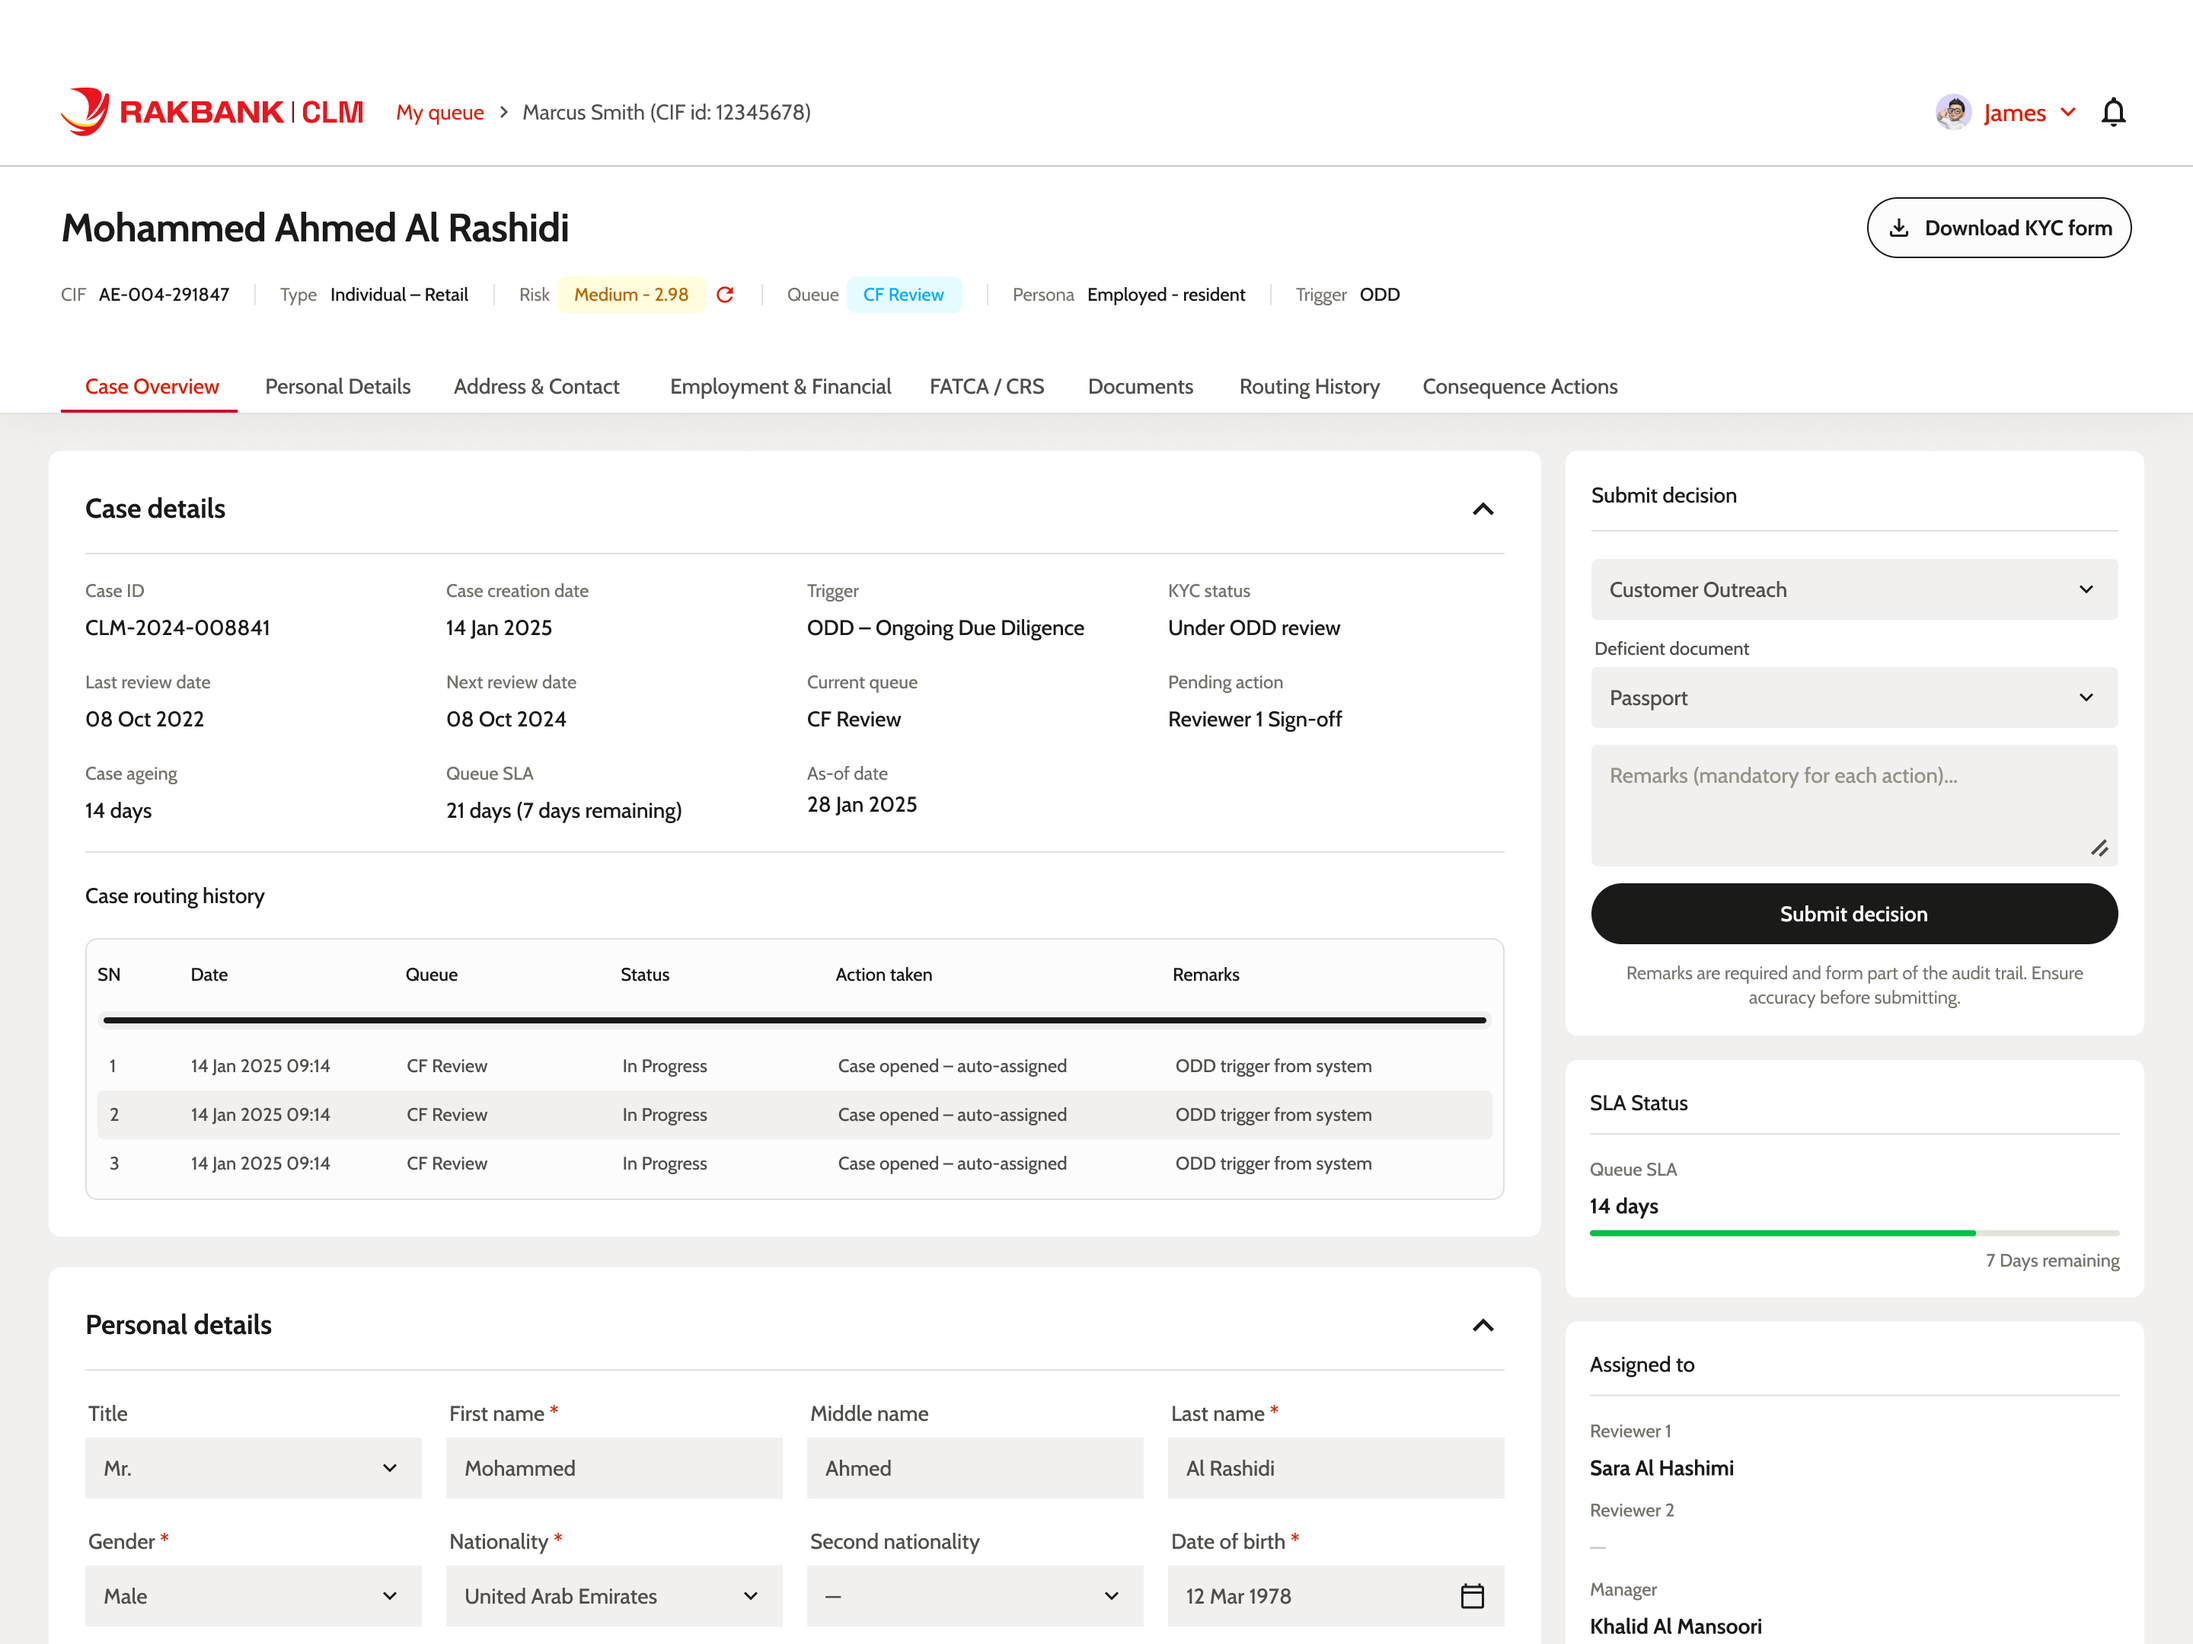
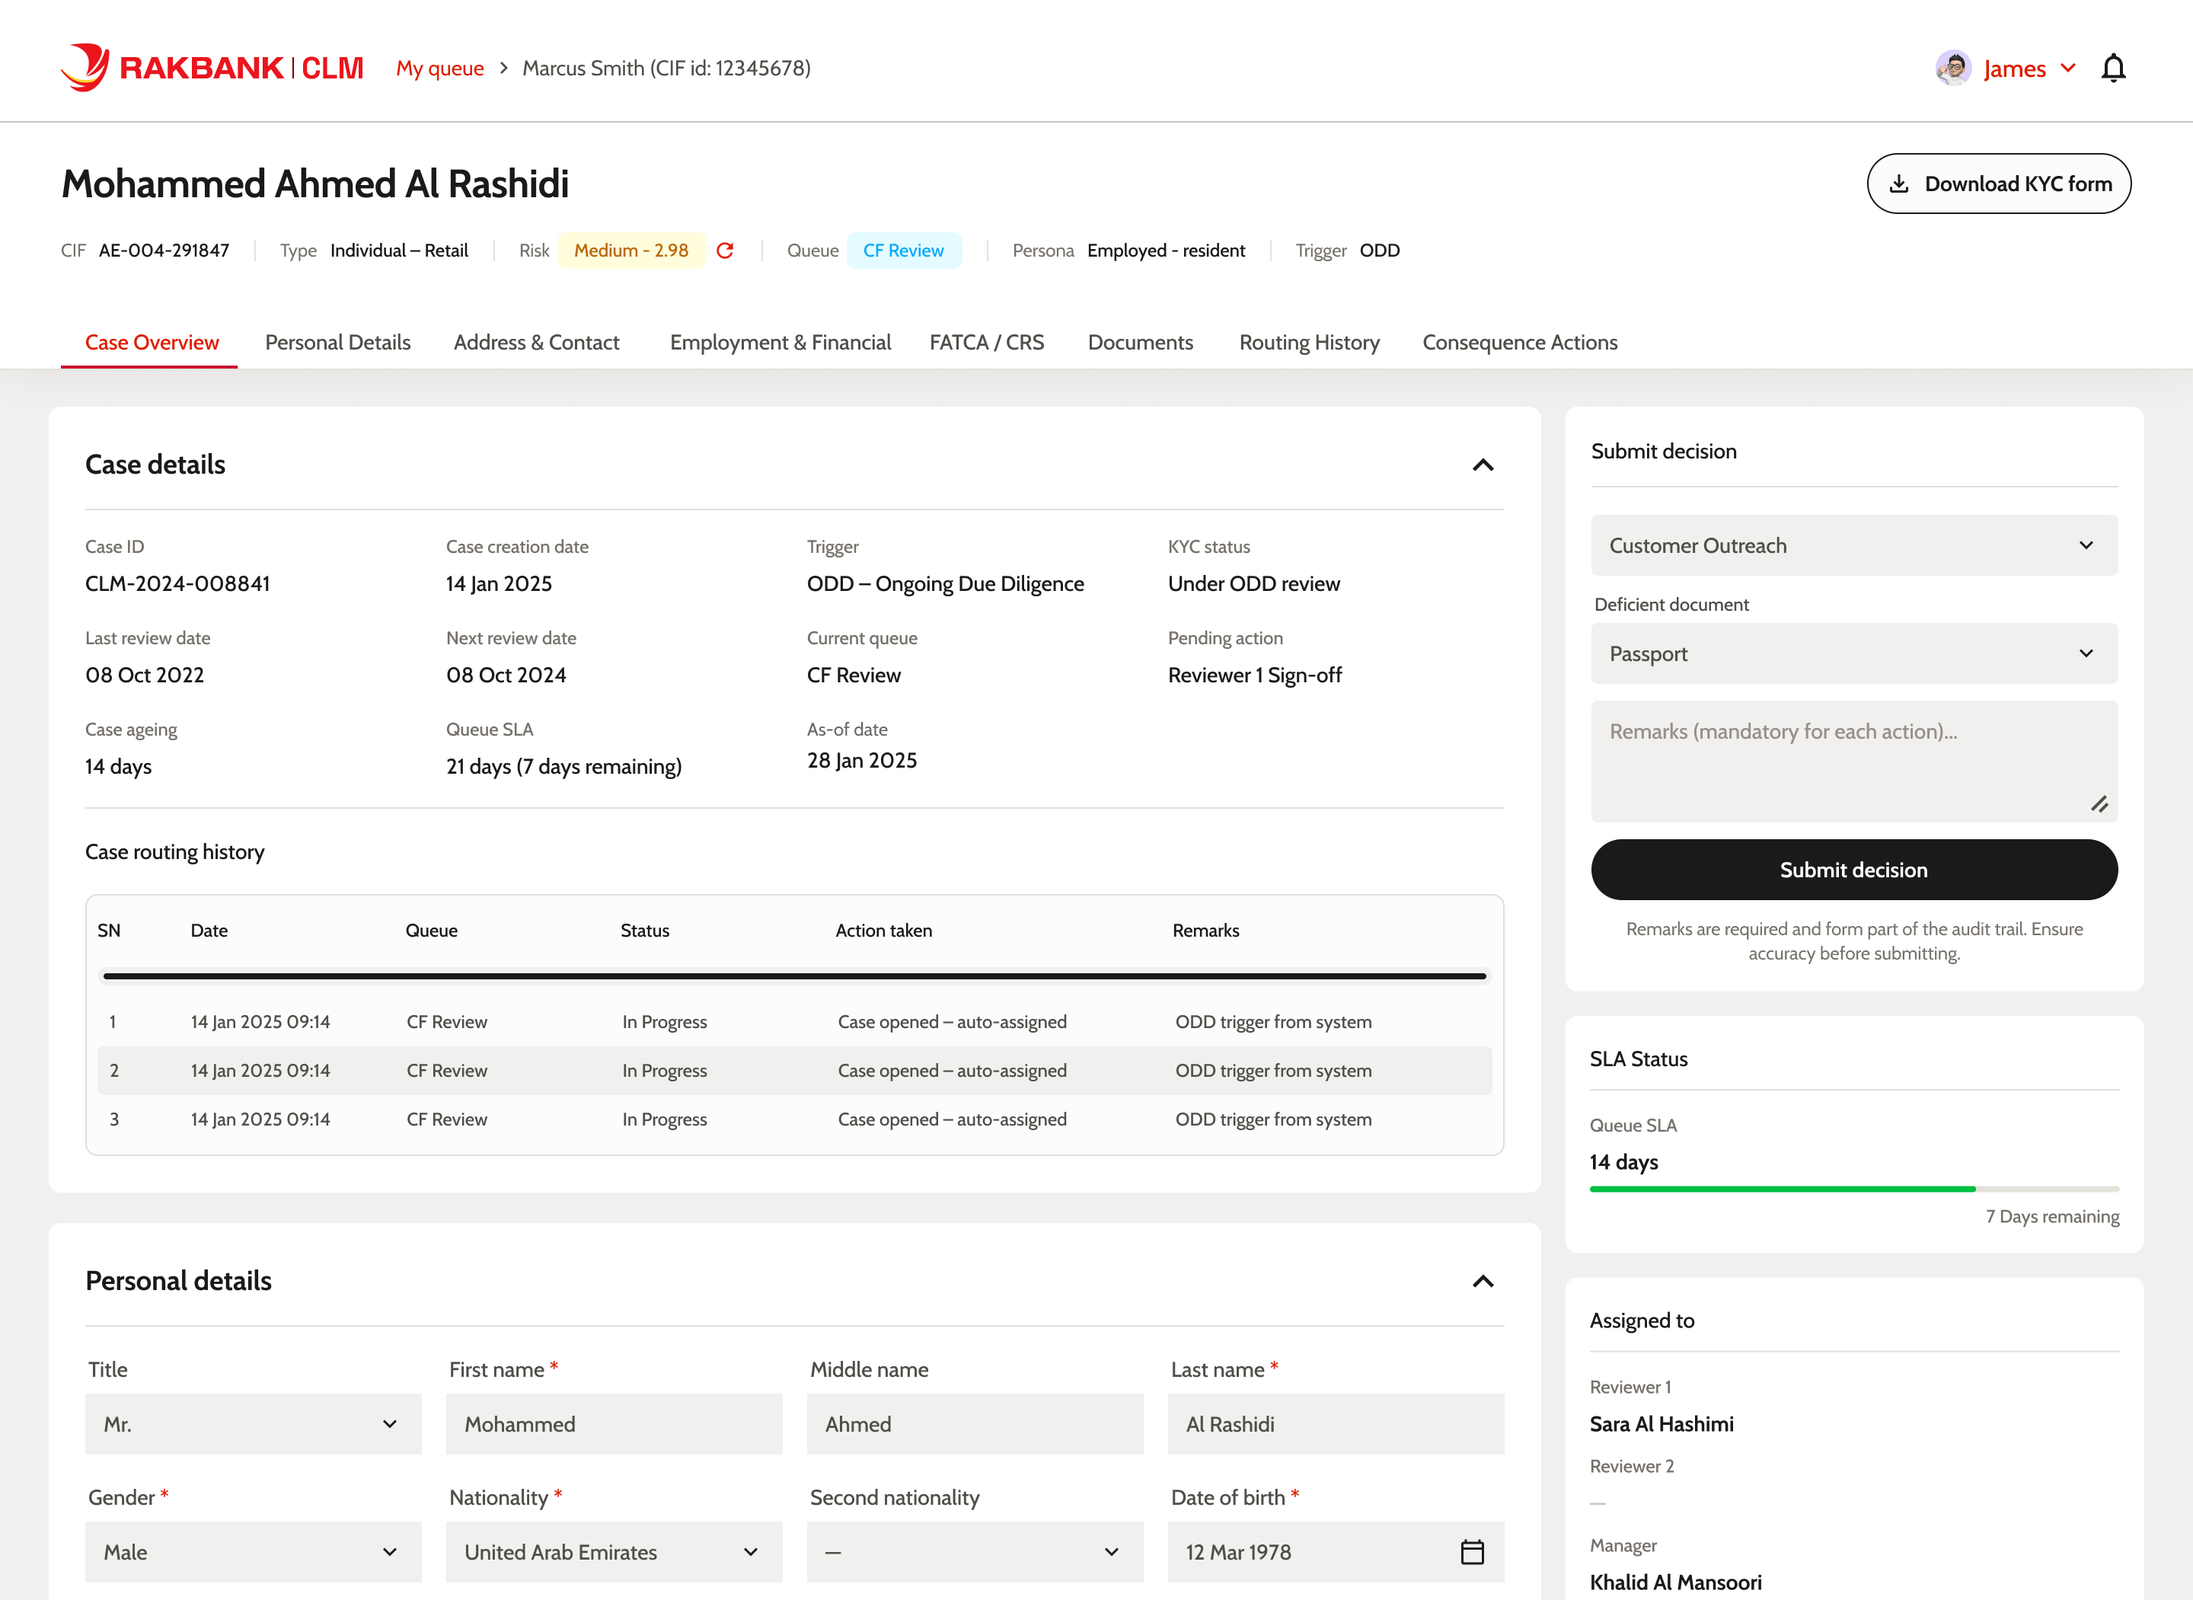
Halve the top margin on screenshots (4% → 2%)
https://claude.ai/code/session_01Xn4Yo2Nv56MW4czW6HxPsv

diff --git a/case-rakbank-ru.html b/case-rakbank-ru.html
@@ -56,7 +56,7 @@
         <!-- ── Hero screenshot ── -->
         <div class="n-card n-rise" data-reveal>
           <div class="n-img-block n-up">
-            <img src="assets/clm-dashboard.png?v=3" alt="Дашборд CLM — обзор соответствия" />
+            <img src="assets/clm-dashboard.png?v=4" alt="Дашборд CLM — обзор соответствия" />
           </div>
         </div>
 
@@ -176,7 +176,7 @@
             <li class="n-up">Ролевые представления дашборда для аналитиков, офицеров и операционных менеджеров</li>
           </ul>
           <div class="n-img-block n-up">
-            <img src="assets/Case Details - PBG.png?v=3" alt="Детали дела — панель проверки соответствия" />
+            <img src="assets/Case Details - PBG.png?v=4" alt="Детали дела — панель проверки соответствия" />
           </div>
         </div>
 
@@ -185,7 +185,7 @@
           <h3 class="n-row-h n-up">Вселенная клиентов</h3>
           <p class="n-up">Единое представление с поиском по каждому клиенту банка. Аналитики фильтруют по сегменту, профилю риска, статусу KYC и датам проверок — заменяя фрагментированный поиск, который раньше был разбросан по отдельным системам.</p>
           <div class="n-img-block n-up">
-            <img src="assets/clm-customer-universe.png?v=3" alt="Вселенная клиентов — единая таблица клиентов" />
+            <img src="assets/clm-customer-universe.png?v=4" alt="Вселенная клиентов — единая таблица клиентов" />
           </div>
         </div>
 

diff --git a/case-rakbank.html b/case-rakbank.html
@@ -56,7 +56,7 @@
         <!-- ── Hero screenshot ── -->
         <div class="n-card n-rise" data-reveal>
           <div class="n-img-block n-up">
-            <img src="assets/clm-dashboard.png?v=3" alt="CLM Dashboard — compliance overview" />
+            <img src="assets/clm-dashboard.png?v=4" alt="CLM Dashboard — compliance overview" />
           </div>
         </div>
 
@@ -176,7 +176,7 @@
             <li class="n-up">Role-based dashboard views for analysts, officers, and operations managers</li>
           </ul>
           <div class="n-img-block n-up">
-            <img src="assets/Case Details - PBG.png?v=3" alt="Case details — compliance review panel" />
+            <img src="assets/Case Details - PBG.png?v=4" alt="Case details — compliance review panel" />
           </div>
         </div>
 
@@ -185,7 +185,7 @@
           <h3 class="n-row-h n-up">Customer Universe</h3>
           <p class="n-up">A single, searchable view of every customer at the bank. Analysts filter by segment, risk profile, KYC status, and review dates — replacing the fragmented search that used to be spread across separate systems.</p>
           <div class="n-img-block n-up">
-            <img src="assets/clm-customer-universe.png?v=3" alt="Customer Universe — unified customer table" />
+            <img src="assets/clm-customer-universe.png?v=4" alt="Customer Universe — unified customer table" />
           </div>
         </div>
 

diff --git a/index-ru.html b/index-ru.html
@@ -69,7 +69,7 @@
                 </svg>
                 <span>NDA</span>
               </span>
-              <img src="assets/clm-dashboard.png?v=3" alt="" class="project-card-art project-card-art--screenshot" />
+              <img src="assets/clm-dashboard.png?v=4" alt="" class="project-card-art project-card-art--screenshot" />
             </div>
             <h3 class="project-card-title">Платформа CLM · 2024</h3>
             <p class="project-card-outcome">Объединил 3 системы в одну; сократил время проверки ~60%</p>

diff --git a/index.html b/index.html
@@ -69,7 +69,7 @@
                 </svg>
                 <span>NDA</span>
               </span>
-              <img src="assets/clm-dashboard.png?v=3" alt="" class="project-card-art project-card-art--screenshot" />
+              <img src="assets/clm-dashboard.png?v=4" alt="" class="project-card-art project-card-art--screenshot" />
             </div>
             <h3 class="project-card-title">CLM Platform · 2024</h3>
             <p class="project-card-outcome">Consolidated 3 systems into 1; cut review time ~60%</p>
